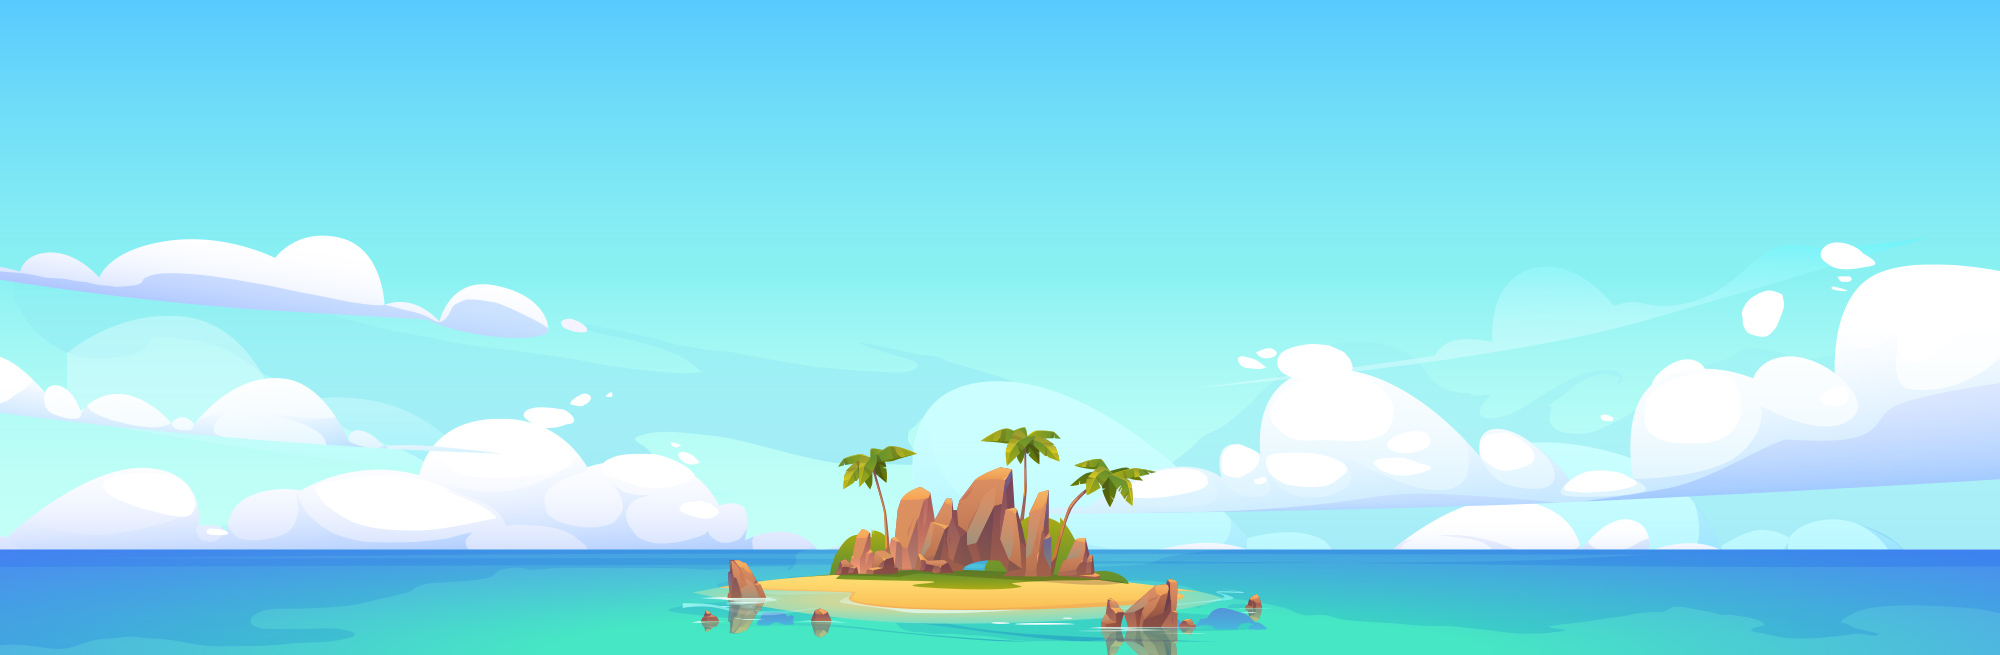
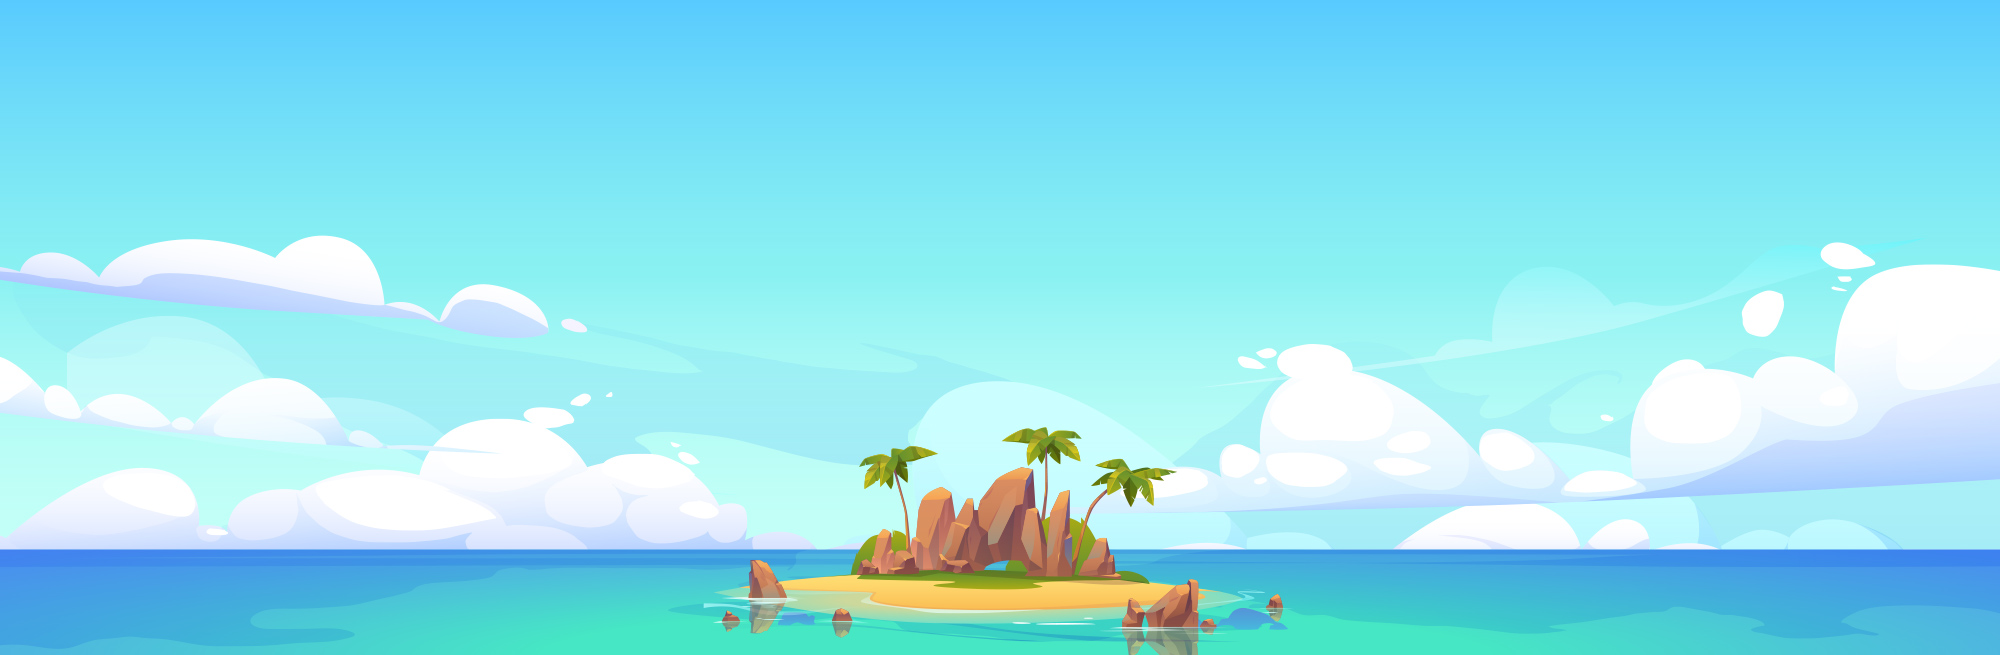
line

Changed region(s): [[0.341, 0.6412, 0.651, 1.0]]

diff --git a/line-animal.html b/line-animal.html
@@ -25,7 +25,6 @@
 		<link rel="stylesheet" href="js/lib/slick/slick.css">
 		<link rel="stylesheet" href="js/lib/slick/slick-theme.css">
 		<link rel="stylesheet" href="css/line.css">
-
 		<link rel="stylesheet" href="css/web_page.css">
 		<link rel="stylesheet" href="css/style.css">
 		<!-- jQuery -->
@@ -36,6 +35,7 @@
 		<script src="js/script.js"></script>
 		<!-- 此頁用 -->
 		<style>
+		.kv-mk{transform: translate(-50%, -50%);}
 		.kv-bg{
 			background: url('images/line-animal/bg_animal.jpg') no-repeat bottom center;
 			-webkit-background-size: cover;
